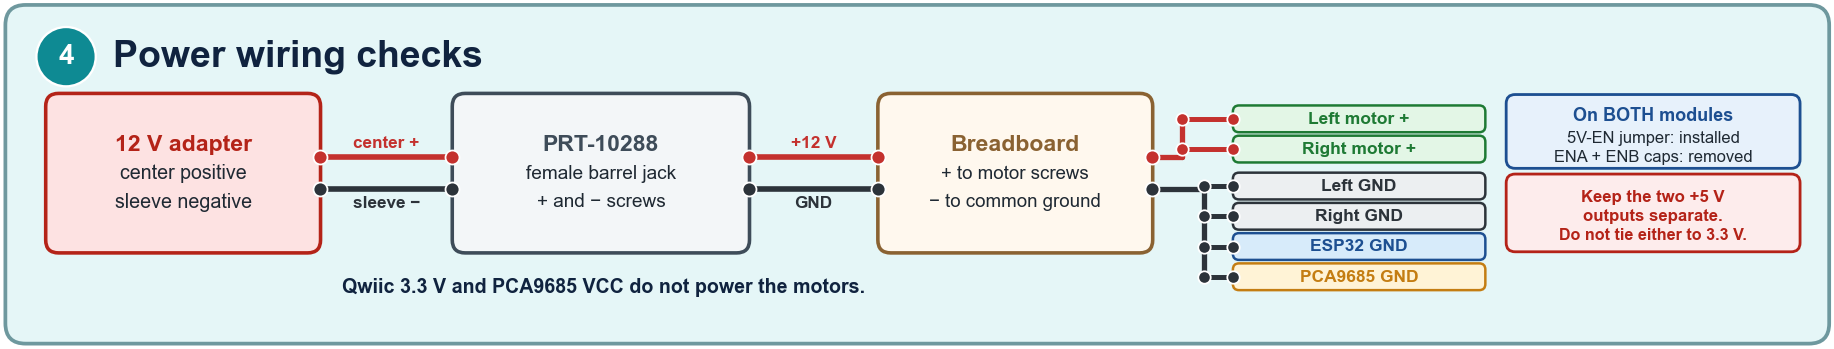
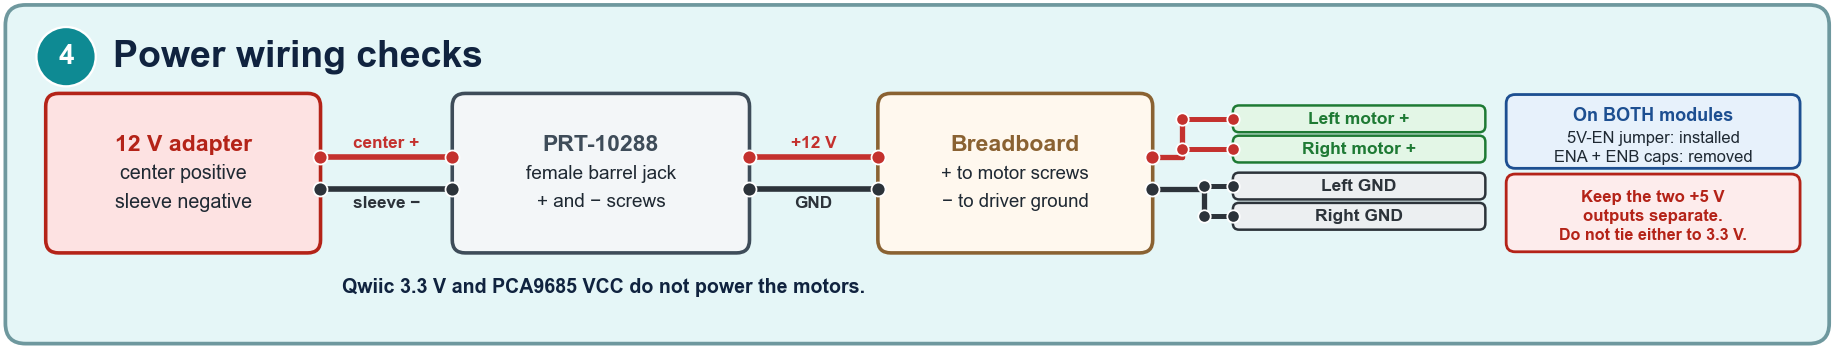
Match wiring figures to reported panel ground connections

Changed region(s): [[0.6527, 0.659, 0.8081, 0.8596], [0.4973, 0.5444, 0.6216, 0.6017]]

diff --git a/BuildYourOwn/RheoBoardOTS/hardware/electronic-wiring/wiring_diagram.py b/BuildYourOwn/RheoBoardOTS/hardware/electronic-wiring/wiring_diagram.py
@@ -340,7 +340,7 @@ def _render(out_path: Path, export_sections: bool = False) -> None:
     card(80.5, pow_y, 24.5, pow_h, BOARD_F, BOARD_E, [
         "Breadboard",
         "+ to motor screws",
-        "− to common ground",
+        "− to driver ground",
     ], body=12.0, title=14.8)
 
     def pair(x1, x2, y_mid, label_plus, label_minus):
@@ -359,14 +359,12 @@ def _render(out_path: Path, export_sections: bool = False) -> None:
     pair(69.0, 80.5, mid, "+12 V", "GND")
 
     # One column of terminals. Red bus feeds the motor screws.
-    # Gray bus is the sleeve-negative common ground.
+    # Gray bus is adapter negative, connected to the two driver grounds.
     pills = [
         (26.55, "Left motor +", L298_F, L298_E, "plus"),
         (23.85, "Right motor +", L298_F, L298_E, "plus"),
         (20.55, "Left GND", "#ECEFF1", GND, "gnd"),
         (17.85, "Right GND", "#ECEFF1", GND, "gnd"),
-        (15.15, "ESP32 GND", ESP_F, ESP_E, "gnd"),
-        (12.45, "PCA9685 GND", PCA_F, PCA_E, "gnd"),
     ]
     pill_x, pill_w, pill_h = 112.2, 22.5, 2.35
     plus_ys = []

diff --git a/BuildYourOwn/RheoBoardOTS/hardware/electronic-wiring/README.md b/BuildYourOwn/RheoBoardOTS/hardware/electronic-wiring/README.md
@@ -4,9 +4,11 @@ This folder contains the electronic wiring diagrams for RheoBoardOTS - DIY. Step
 
 **Component wiring**
 
-<img src="rheoboardots-fritzing.png?v=6546dba0b344" alt="RheoBoardOTS component wiring with the ESP32, PCA9685, two L298N modules, pumps, valve, and power distribution" width="900">
+Current panel connections. PCA9685 GND is supplied through Qwiic; both L298N GND terminals return to adapter negative through the breadboard.
 
-[Full-size image](https://raw.githubusercontent.com/The-Hybrid-Atelier/RheoBoard/main/BuildYourOwn/RheoBoardOTS/hardware/electronic-wiring/rheoboardots-fritzing.png?v=6546dba0b344) · [Editable SVG](rheoboardots-fritzing.svg)
+<img src="rheoboardots-fritzing.png?v=3b3a40abf3ba" alt="RheoBoardOTS component wiring with the ESP32, PCA9685, two L298N modules, pumps, valve, and power distribution" width="900">
+
+[Full-size image](https://raw.githubusercontent.com/The-Hybrid-Atelier/RheoBoard/main/BuildYourOwn/RheoBoardOTS/hardware/electronic-wiring/rheoboardots-fritzing.png?v=3b3a40abf3ba) · [Editable SVG](rheoboardots-fritzing.svg)
 
 **Step details**
 
@@ -18,7 +20,7 @@ The continuity example is an optional meter reference; Step 04 uses a plain wiri
 
 **Connection reference**
 
-![Electrical wiring diagram](https://raw.githubusercontent.com/The-Hybrid-Atelier/RheoBoard/main/BuildYourOwn/RheoBoardOTS/hardware/electronic-wiring/wiring-diagram.png?v=6550de6a5e23)
+![Electrical wiring diagram](https://raw.githubusercontent.com/The-Hybrid-Atelier/RheoBoard/main/BuildYourOwn/RheoBoardOTS/hardware/electronic-wiring/wiring-diagram.png?v=2a2f03b8c41f)
 
 The connection reference is `wiring-diagram.png`. `wiring_diagram.py` generates that three-section figure. `matplotlib` is required. Run `python3 wiring_diagram.py` from this folder. It writes `wiring-diagram.png`. Add `--sections` to also export `wiring-control-boards.png`, `wiring-drivers.png`, and `wiring-power-check.png` as optional technical references for assembly.
 
